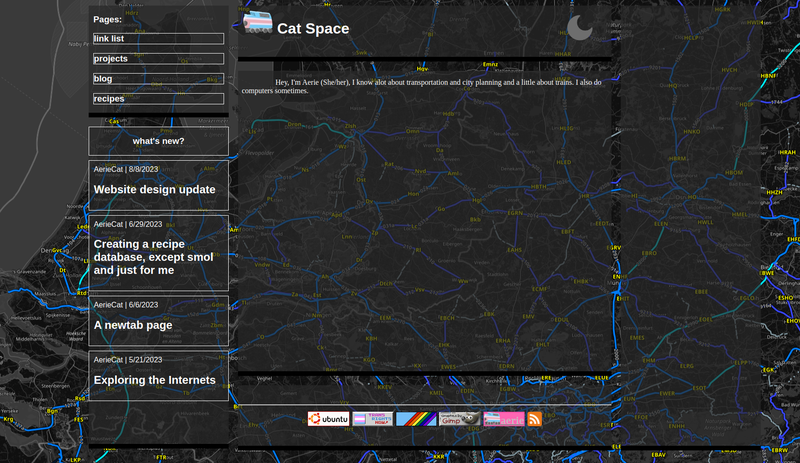
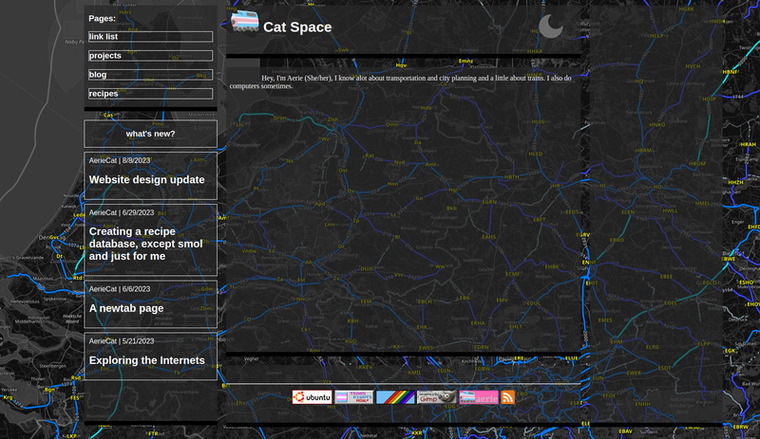
file reduced

diff --git a/p/weblog-pics/resizeTo800pxWide.py b/p/weblog-pics/resizeTo800pxWide.py
@@ -10,7 +10,7 @@ def scale_image(image_path, new_width):
 
 if __name__ == '__main__':
     script_dir = os.path.dirname(os.path.abspath(__file__))
-    new_width = 800
+    new_width = 760
 
     for filename in os.listdir(script_dir):
         if filename.endswith('.png'):
